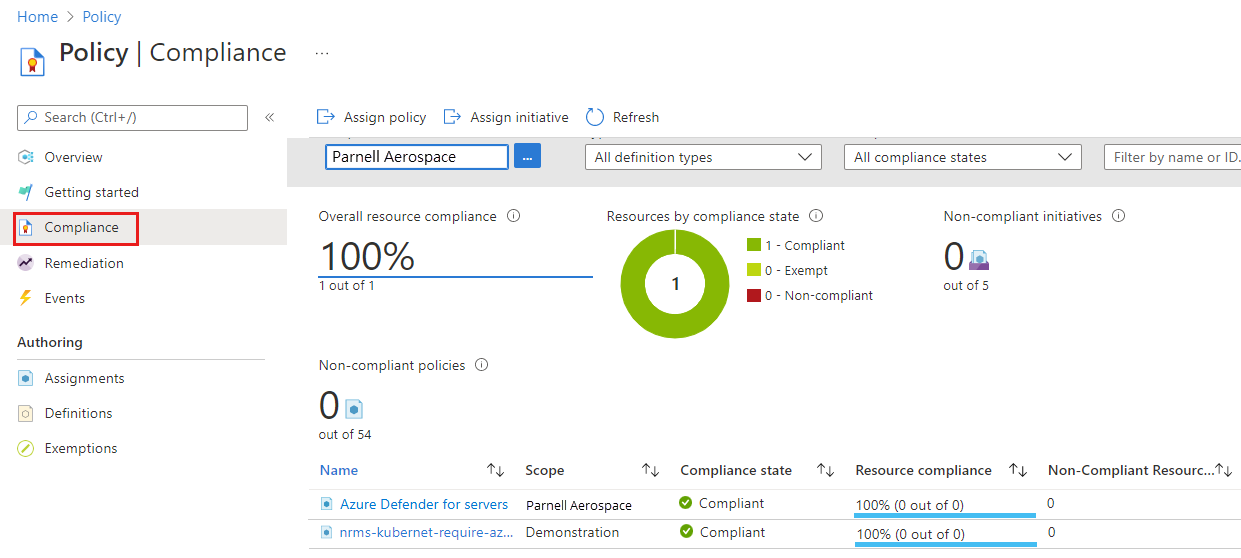
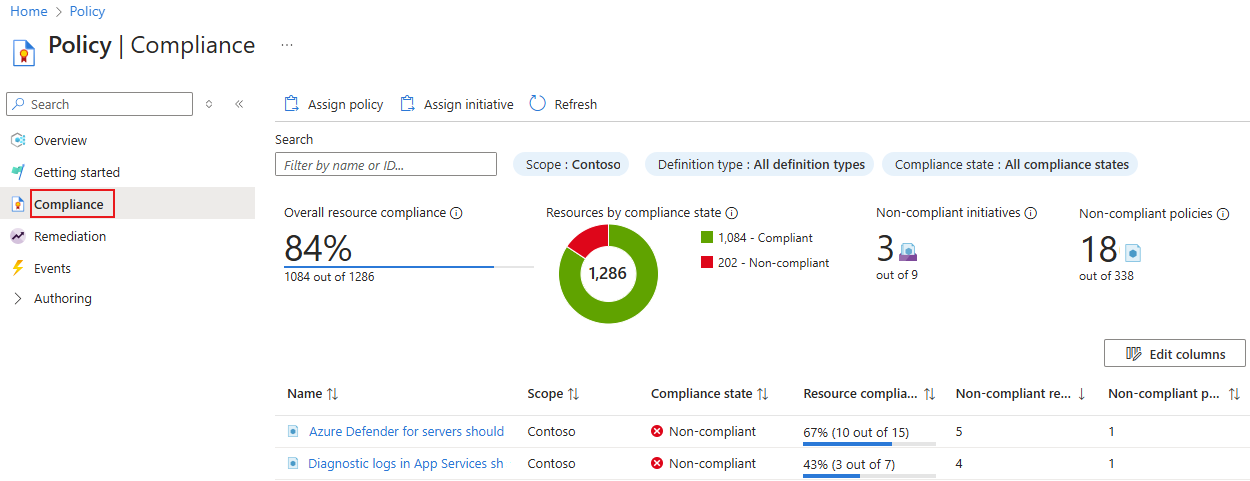
update portal images and steps

diff --git a/articles/azure-arc/servers/learn/tutorial-assign-policy-portal.md b/articles/azure-arc/servers/learn/tutorial-assign-policy-portal.md
@@ -2,12 +2,12 @@
 title: Tutorial - New policy assignment with Azure portal
 description: In this tutorial, you use Azure portal to create an Azure Policy assignment to identify non-compliant resources.
 ms.topic: tutorial
-ms.date: 01/27/2025
+ms.date: 03/06/2025
 ---
 
 # Tutorial: Create a policy assignment to identify non-compliant resources
 
-The first step in understanding compliance in Azure is to identify the status of your resources. Azure Policy supports auditing the state of your Azure Arc-enabled server with machine configuration policies. Azure Policy's machine configuration definitions can audit or apply settings inside the machine. 
+The first step in understanding compliance in Azure is to identify the status of your resources. [Azure Policy](/azure/governance/policy/overview) supports auditing the state of your Azure Arc-enabled server with machine configuration policies. Azure Policy's machine configuration definitions can audit or apply settings inside the machine.
 
 This tutorial steps you through the process of creating and assigning a policy in order to identify which of your Azure Arc-enabled servers don't have [Microsoft Defender for Servers](/azure/defender-for-cloud/defender-for-servers-overview) enabled.
 
@@ -28,29 +28,19 @@ before you begin.
 
 Use the following procedure to create a policy assignment and assign the policy definition *Azure Defender for servers should be enabled*.
 
-1. Launch the Azure Policy service in the Azure portal by selecting **All services**, then searching
-   for and selecting **Policy**.
+1. Launch the Azure Policy service in the Azure portal by searching for and selecting **Policy**.
 
-   :::image type="content" source="./media/tutorial-assign-policy-portal/all-services-page.png" alt-text="Screenshot of All services window showing search for policy service." border="true":::
+1. In the service menu, under **Authoring**, select **Assignments**. An assignment is a policy assigned to take place within a specific scope.
 
-1. Select **Assignments** on the left side of the Azure Policy page. An assignment is a policy assigned to take place within a specific scope.
+1. Select **Assign Policy** from the top of the **Assignments** pane.
 
-    :::image type="content" source="./media/tutorial-assign-policy-portal/assignments-tab.png" alt-text="Screenshot of All services Policy window showing policy assignments." border="true":::
+    :::image type="content" source="./media/tutorial-assign-policy-portal/assignments-tab.png" alt-text="Screenshot of the Policy Assignments page in the Azure portal." border="true":::
 
-1. Select **Assign Policy** from the top of the **Policy | Assignments** page.
+1. On the **Assign Policy** page, select the **Scope** by selecting the ellipsis and selecting either a management group or subscription. Optionally, select a resource group. The scope determines which resources or grouping of resources the policy assignment gets enforced on. Then, choose **Select** at the bottom of the **Scope** pane.
 
-1. On the **Assign Policy** page, select the **Scope** by clicking the ellipsis and selecting either
-   a management group or subscription. Optionally, select a resource group. A scope determines what
-   resources or grouping of resources the policy assignment gets enforced on. Then select **Select**
-   at the bottom of the **Scope** page.
+1. Resources can be excluded based on the **Scope**. **Exclusions** start at one level lower than the level of the **Scope**. **Exclusions** are optional, so leave it blank for now.
 
-   This example uses the **Parnell Aerospace** subscription. Your subscription will differ.
-
-1. Resources can be excluded based on the **Scope**. **Exclusions** start at one level lower than
-   the level of the **Scope**. **Exclusions** are optional, so leave it blank for now.
-
-1. Select the **Policy definition** ellipsis to open the list of available definitions. Azure Policy
-   comes with built-in policy definitions you can use. Many are available, such as:
+1. Select the **Policy definition** ellipsis to open the list of available definitions. Azure Policy comes with many built-in policy definitions you can use, such as:
 
    - Enforce tag and its value
    - Apply tag and its value
@@ -60,17 +50,15 @@ Use the following procedure to create a policy assignment and assign the policy 
 
 1. Search through the policy definitions list to find the *Azure Defender for servers should be enabled* definition. Choose that policy and select **Add**.
 
-1. The **Assignment name** is automatically populated with the policy name you selected, but you can
-   change it. For this example, leave the policy name as is, and don't change any of the remaining options on the page.
- 
+1. The **Assignment name** is automatically populated with the policy name you selected, but you can change it. For this example, leave the policy name as is, and don't change any of the remaining options on the page.
+
 1. For this example, we don't need to change any settings on the other tabs. Select **Review + Create** to review your new policy assignment, then select **Create**.
 
-You're now ready to identify non-compliant resources to understand the compliance state of your
-environment.
+You're now ready to identify non-compliant resources to understand the compliance state of your environment.
 
 ## Identify non-compliant resources
 
-Select **Compliance** in the left side of the page. Then locate the **Azure Defender for servers should be enabled** policy assignment you created.
+In the service menu, select **Compliance**. Then locate the **Azure Defender for servers should be enabled** policy assignment you created.
 
 :::image type="content" source="./media/tutorial-assign-policy-portal/compliance-policy.png" alt-text="Screenshot of Policy Compliance page showing policy compliance for the selected scope." border="true":::
 
@@ -98,16 +86,15 @@ condition triggers evaluation of the existence condition for the related resourc
 
 To remove the assignment created, follow these steps:
 
-1. Select **Compliance** (or **Assignments**) in the left side of the Azure Policy page and locate
-   the **Azure Defender for servers should be enabled** policy assignment you created.
-
-1. Right-click the policy assignment and select **Delete assignment**.
+1. In the service menu, select **Compliance** (or select  **Assignments** under **Authoring**).
+1. Locate the **Azure Defender for servers should be enabled** policy assignment you created.
+1. Right-click the policy assignment, then select **Delete assignment**.
 
 ## Next steps
 
 In this tutorial, you assigned a policy definition to a scope and evaluated its compliance report. The policy definition validates that all the resources in the scope are compliant and identifies which ones aren't. Now you're ready to monitor your Azure Arc-enabled servers machine by enabling [VM insights](/azure/azure-monitor/vm/vminsights-overview).
 
-To learn how to monitor and view the performance, running process and their dependencies from your machine, continue to the tutorial:
+To learn how to monitor and view the performance, running process, and dependencies from your machine, continue to the tutorial:
 
 > [!div class="nextstepaction"]
 > [Enable VM insights](tutorial-enable-vm-insights.md)
